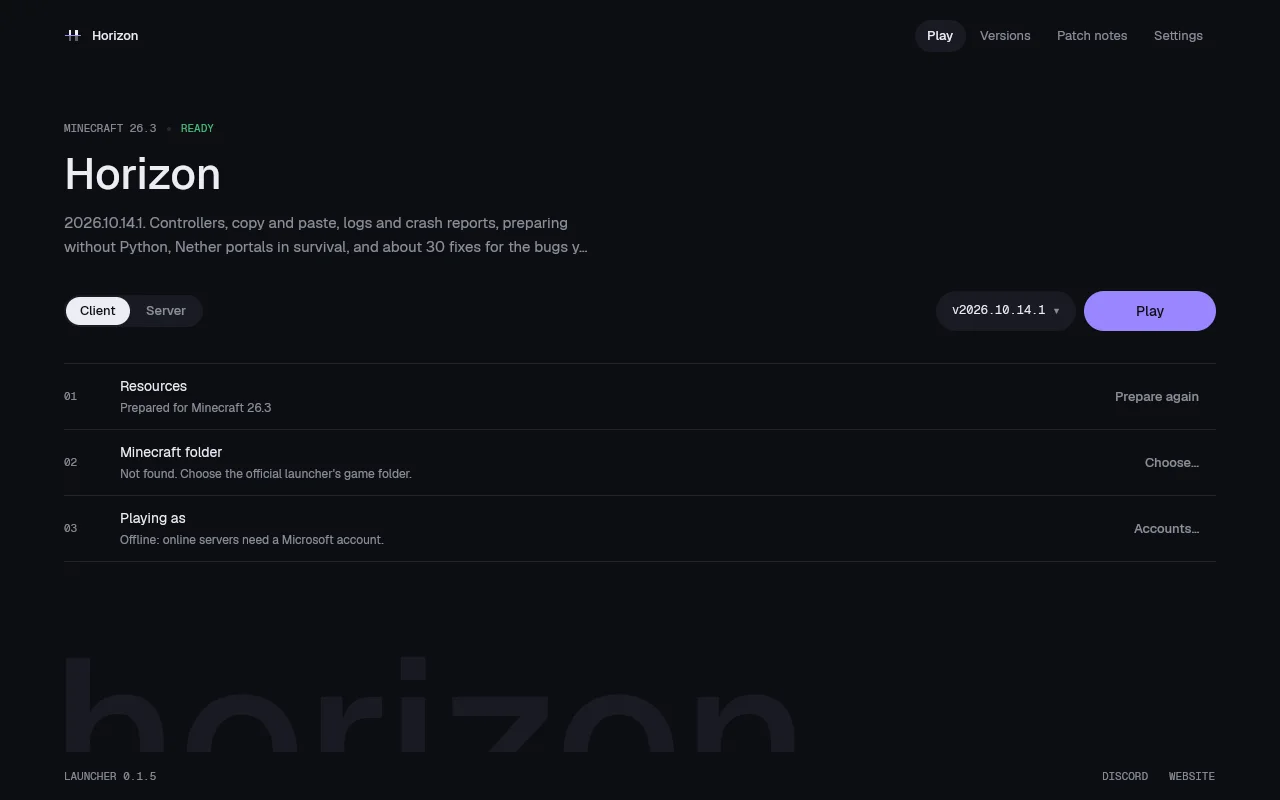
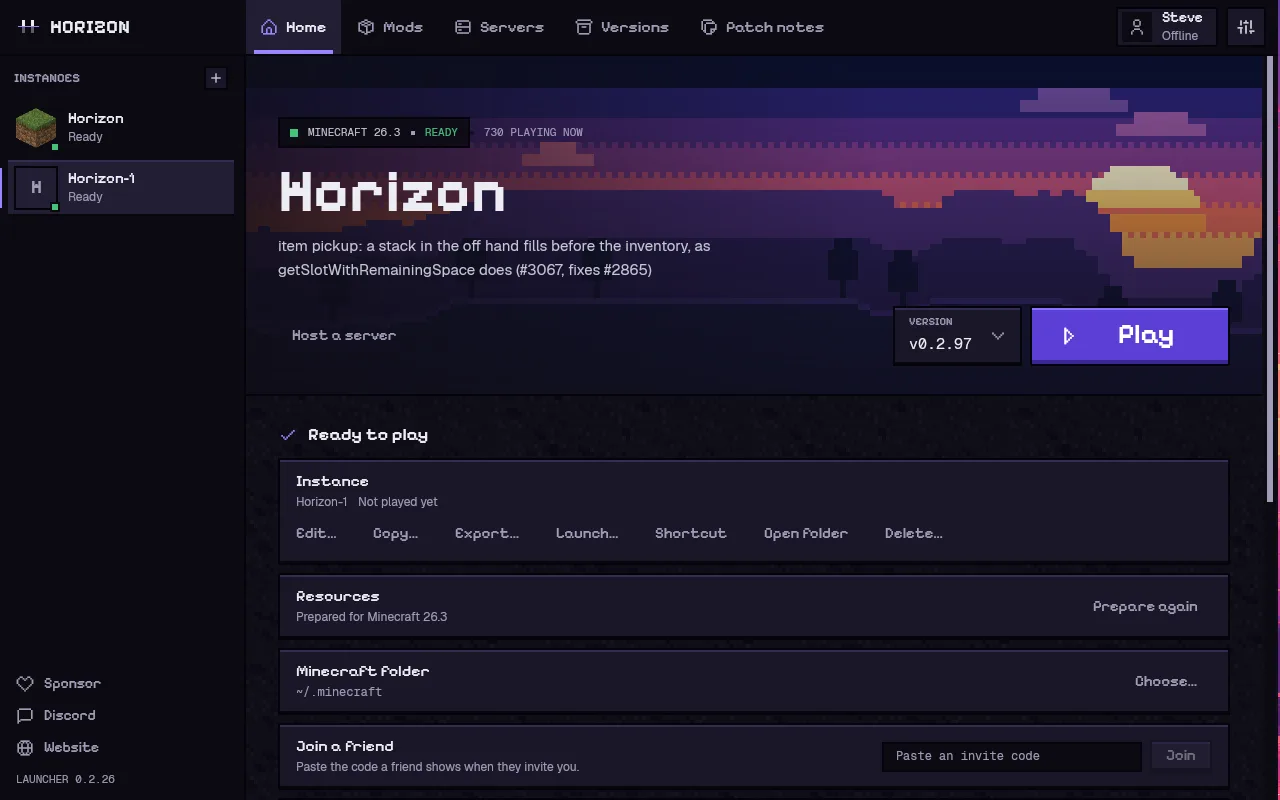
README: the launcher's Home and Settings pages, freshly captured
The two launcher pictures dated from the 0.1.5 UI: the Play page (now
Home) and Patch notes, which no longer shows what the launcher is for.
Both are replaced in place with 1280x800 captures of 0.2.26, and the
alt texts follow; nothing else in the README changes.

Taken in a scratch home with the offline name Steve, one instance and
v0.2.97 prepared, so no account or server data appears.

diff --git a/README.md b/README.md
@@ -35,8 +35,8 @@ Horizon is installed through **the Horizon launcher**. Get it from [playhorizon.
 
 <table>
   <tr>
-    <td width="50%"><img src="docs/media/launcher-play.webp" alt="The launcher's Play page: a version ready to play, its summary, Client and Server, the version picker and Play"></td>
-    <td width="50%"><img src="docs/media/launcher-patch-notes.webp" alt="The launcher's Patch notes page"></td>
+    <td width="50%"><img src="docs/media/launcher-play.webp" alt="The launcher's Home page: the selected instance ready to play, Minecraft's prepared files, the version picker and Play"></td>
+    <td width="50%"><img src="docs/media/launcher-patch-notes.webp" alt="The launcher's Settings page: account, updates and appearance"></td>
   </tr>
 </table>
 
